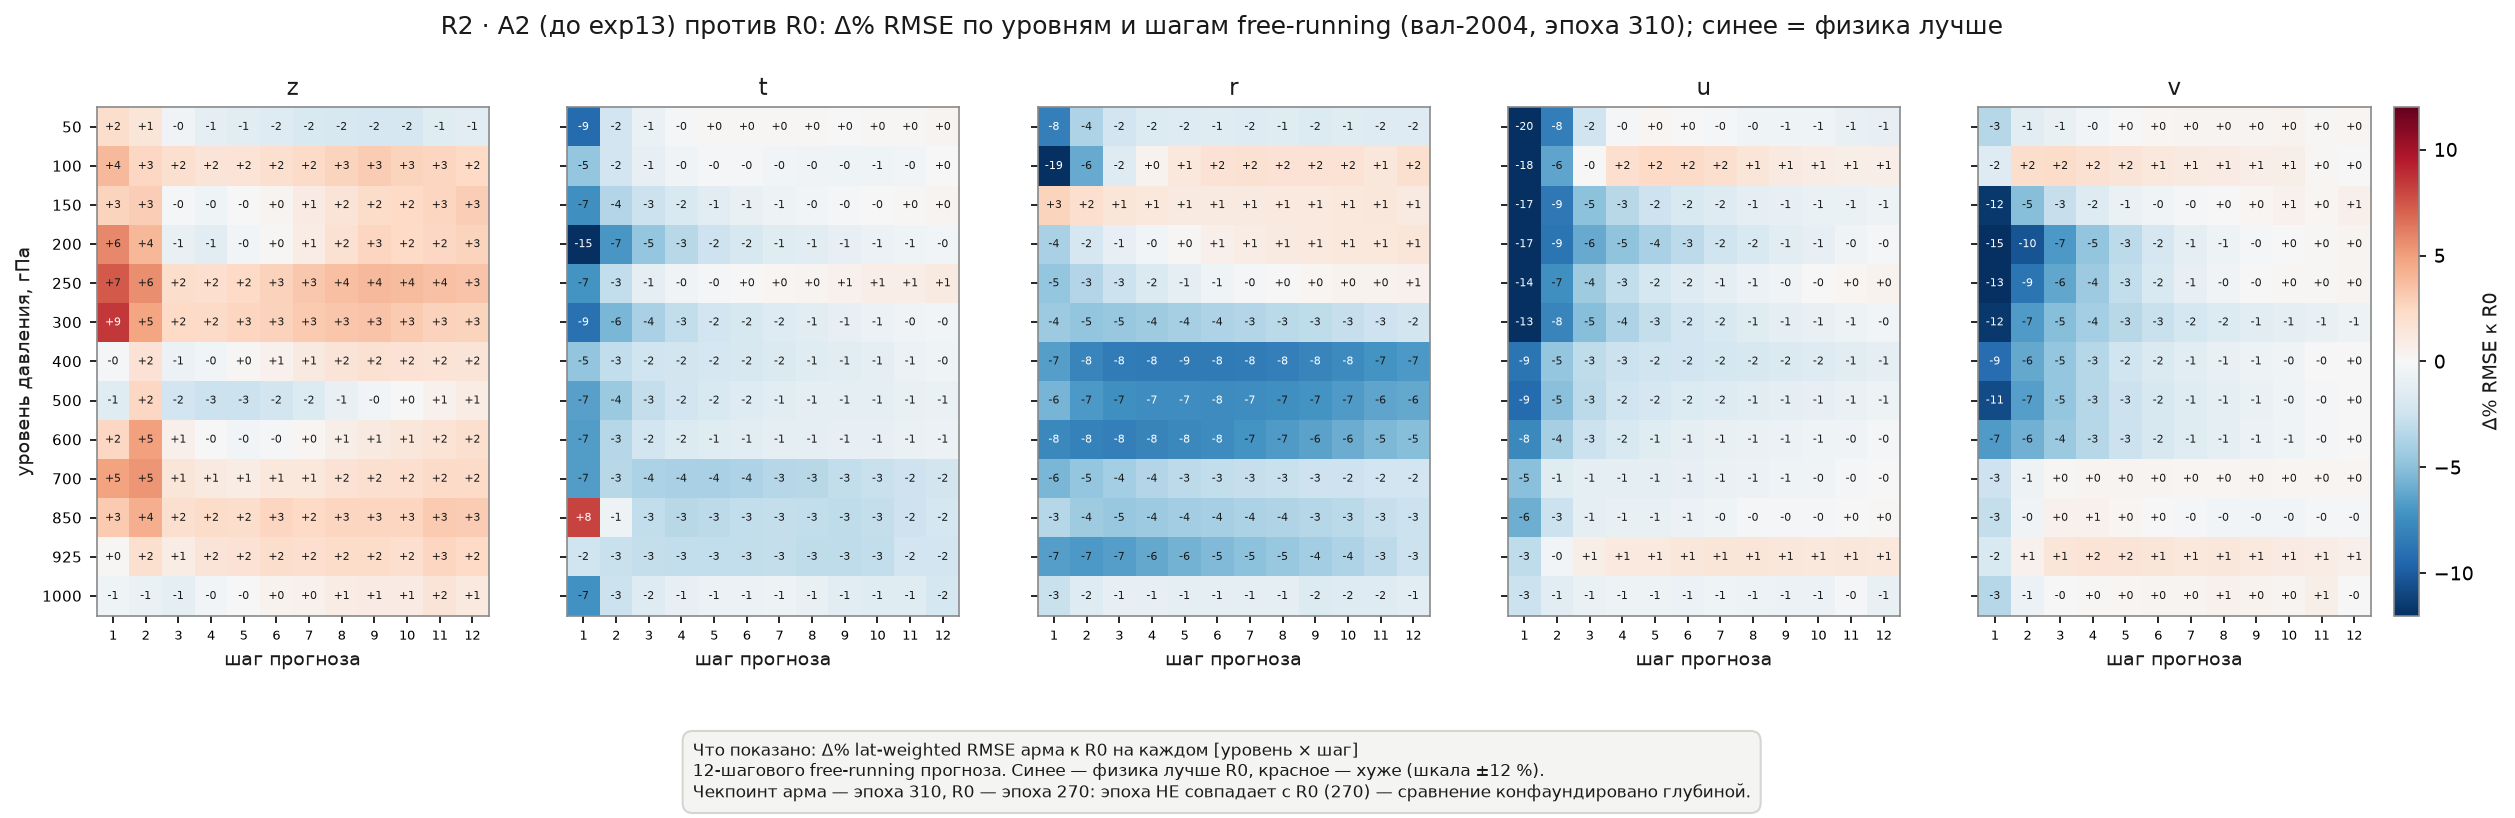
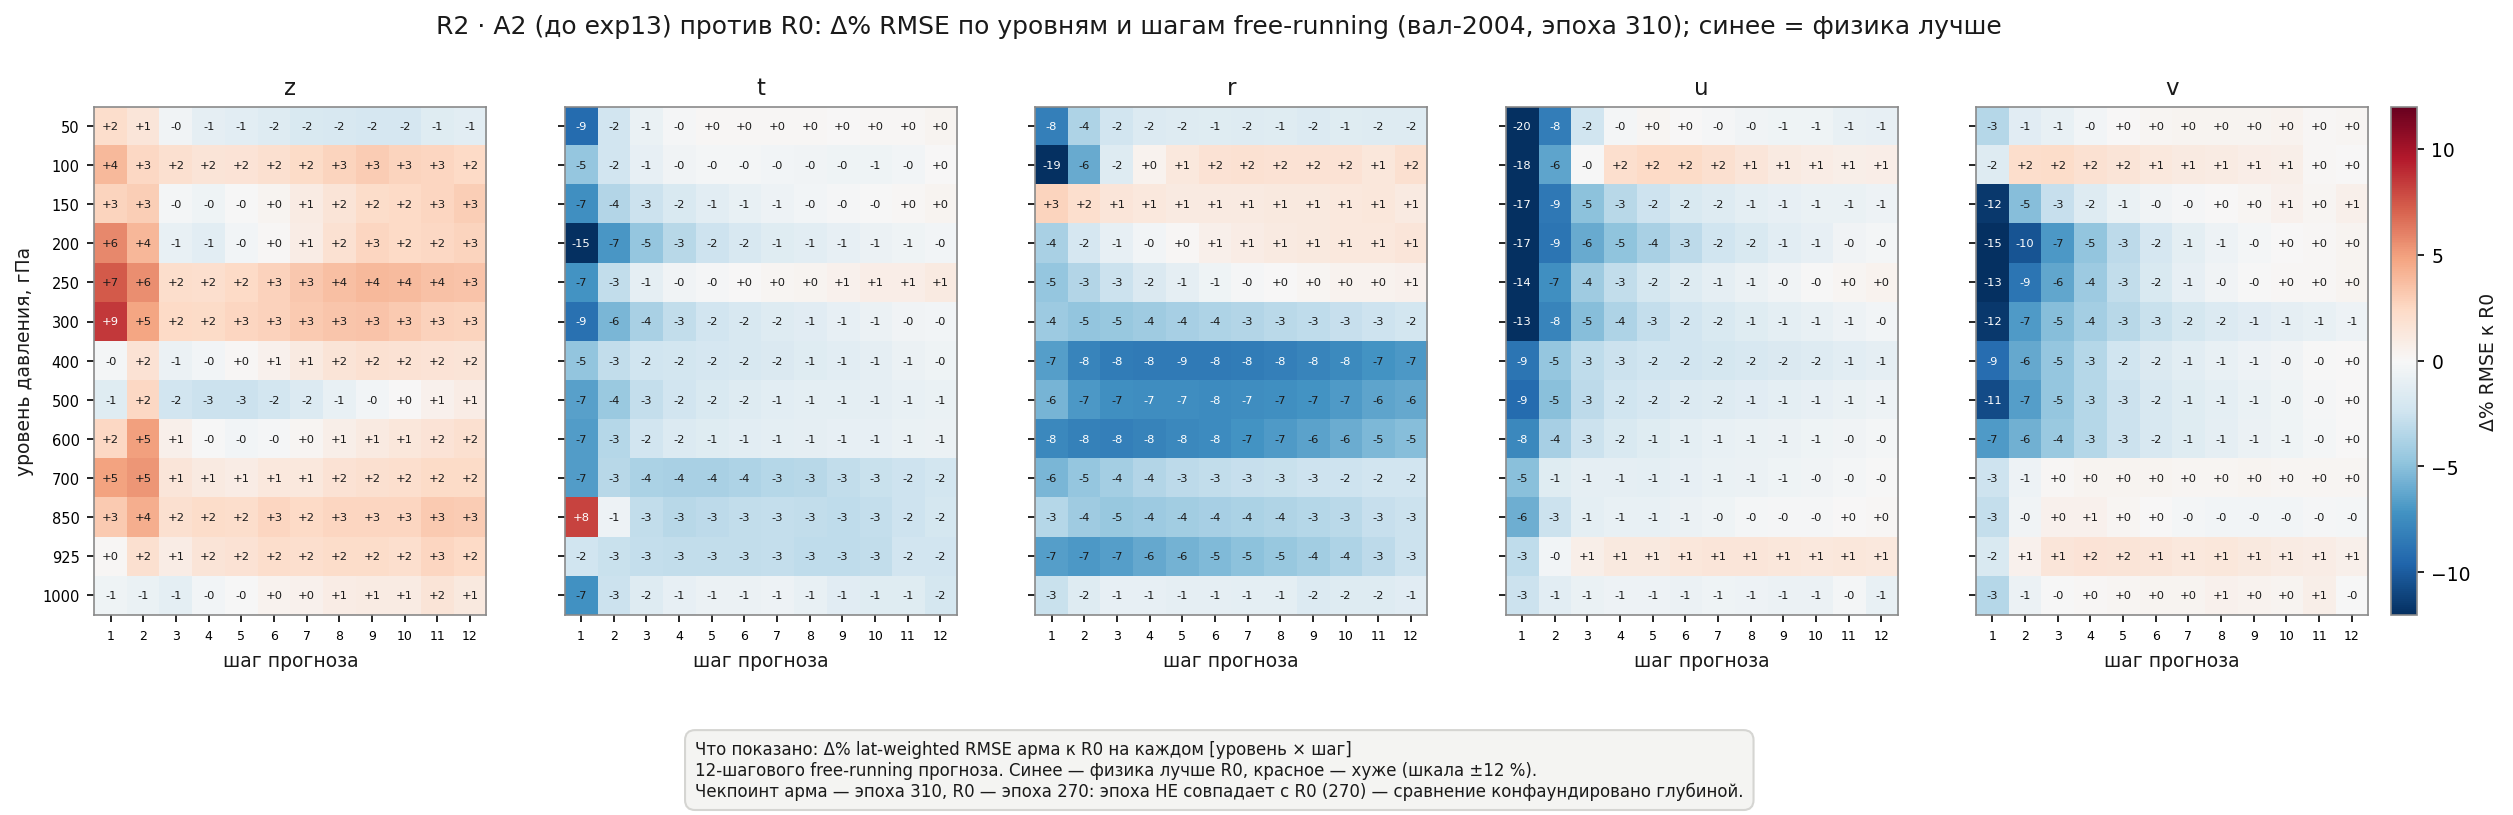
feat(exp16): per-arm heatmaps for the whole ladder; long-wave conclusions (§11)
Figures: an unannotated per-arm heatmap (render_arm_heatmap) for all six ladder
arms in both waves, alongside the annotated level×step heatmap already added for
the four equation arms, plus a level-resolved delta table per wave.

§11 states the long wave's conclusions:
- physics is worth ~2% (val_loss and rollout alike) and only when the equations
  are right: legacy physics is worse than none (+1.9%), and physics without the
  diabatic Q_theta is too (+0.3%). The spread between broken and correct physics
  (4 pp) exceeds the whole gain of correct physics over none (2 pp);
- Q3 answered: the gap does not collapse at plateau, but it decomposes -- physics
  is convergence speed at short lead (R0 catches up and overtakes on z) and
  capacity against drift at long lead (R0 degrades as it keeps training, the
  physics arms hold). Without physics the model buys step-1 accuracy with rollout
  drift; the prior forbids that trade;
- validation plateau is not a skill plateau: per-step skill keeps growing ~10-14%
  after val_loss flattens, so best.pt selection is mis-specified for short lead and
  arms cannot be ranked from best.pt checkpoints at different epochs;
- vertically, physics fixes the jet (u -24% at 50 hPa) and not the boundary layer;
  the only lead-persistent gain is humidity at 400-600 hPa (-5..-7% across all 12
  steps); the z penalty sits at the top of the column and vanishes at the surface.

diff --git a/docs/experiments/16_model_ablation_ladder/rollout_figures.py b/docs/experiments/16_model_ablation_ladder/rollout_figures.py
@@ -89,7 +89,16 @@ def canonical_arm(name: str) -> str:
 
 UPPER_VARS = ("z", "t", "r", "u", "v")
 VAR_UNITS = {"z": "м²/с²", "t": "K", "r": "%", "u": "м/с", "v": "м/с"}
-# Армы с исправленными уравнениями: для них строятся пер-армовые хитмапы по уровням.
+# Армы лестницы в общем хитмапе (без R0): отдельная фигура на каждый.
+LADDER_ARMS = (
+    "r1-legacy-hybrid",
+    "r2a-a1-pre13",
+    "r2-a2-pre13",
+    "r3-a2-exp13",
+    "r4-exp14",
+    "r5-exp15",
+)
+# Армы с исправленными уравнениями: markdown-таблица по уровням + аннотированный хитмап.
 EQUATION_ARMS = ("r2-a2-pre13", "r3-a2-exp13", "r4-exp14", "r5-exp15")
 TABLE_STEPS = (1, 6, 12)  # шаги прогноза (1-индексация) в markdown-таблице по уровням
 INK, MUTED = "#1a1a1a", "#8a8a8a"
@@ -461,6 +470,52 @@ def level_step_delta(runs: dict[str, dict], arm: str, var: str) -> tuple[np.ndar
     return delta_percent(arm_matrix, base_matrix), levels
 
 
+def render_arm_heatmap(runs: dict[str, dict], arm: str, dst: Path, clip: float = 12.0) -> None:
+    """Один арм в стиле ``render_heatmap``: Δ% к R0, [уровень × шаг], без подписей в ячейках."""
+    n_steps = runs[arm]["rmse_free"].shape[0]
+    boundary = window_boundary(runs)
+    epoch = epoch_label(runs)
+    mid = boundary - 1 if boundary is not None else n_steps // 2 - 1
+    tick_offsets = sorted({0, mid, n_steps - 1})
+    tick_labels = [str(off + 1) for off in tick_offsets]
+    fig, axes = plt.subplots(1, len(UPPER_VARS), figsize=(3.4 * len(UPPER_VARS), 4.2), sharey=True)
+    image = None
+    for ax, var in zip(axes, UPPER_VARS, strict=True):
+        delta, levels = level_step_delta(runs, arm, var)
+        image = ax.imshow(
+            delta, cmap="RdBu_r", vmin=-clip, vmax=clip, aspect="auto", interpolation="nearest"
+        )
+        if boundary is not None:
+            ax.axvline(boundary - 0.5, color=MUTED, lw=0.7, ls=":")
+        ax.set_title(f"{var}", fontsize=10)
+        ax.set_xticks(tick_offsets, tick_labels, fontsize=6)
+        ax.set_xlabel("шаг прогноза")
+        ax.grid(False)
+    axes[0].set_yticks(range(len(levels)), [str(level) for level in levels], fontsize=7)
+    axes[0].set_ylabel("уровень давления, гПа")
+    fig.suptitle(
+        f"{ARM_LABELS[arm]}: Δ% RMSE к R0 по уровням и шагам free-running rollout "
+        f"(вал-2004, {epoch}); синее = лучше R0",
+        fontsize=12,
+        y=1.06,
+    )
+    colorbar = fig.colorbar(image, ax=axes, fraction=0.012, pad=0.01)
+    colorbar.set_label("Δ% RMSE к R0")
+    window_note = (
+        f"пунктир — граница окон {boundary}→{boundary}"
+        if boundary is not None
+        else f"нативный {n_steps}-шаговый прогноз"
+    )
+    add_caption(
+        fig,
+        "Что показано: Δ% lat-weighted RMSE к R0 на каждом [уровень давления × шаг rollout];\n"
+        f"{window_note}. Синее — арм лучше R0 (шкала ±{clip:.0f} %).",
+        y=-0.06,
+    )
+    fig.savefig(dst, bbox_inches="tight")
+    plt.close(fig)
+
+
 def render_arm_level_heatmap(
     runs: dict[str, dict], arm: str, dst: Path, clip: float = 12.0
 ) -> None:
@@ -571,7 +626,10 @@ def main() -> None:
     render_ratio_r0(runs, HERE / f"fig_rollout_ratio_r0{args.suffix}.png")
     render_delta_steps(runs, HERE / f"fig_rollout_delta_steps{args.suffix}.png")
     render_heatmap(runs, HERE / f"fig_rollout_heatmap{args.suffix}.png")
+    ladder_arms = [arm for arm in LADDER_ARMS if arm in runs]
     equation_arms = [arm for arm in EQUATION_ARMS if arm in runs]
+    for arm in ladder_arms:
+        render_arm_heatmap(runs, arm, HERE / f"fig_rollout_heatmap_{arm}{args.suffix}.png")
     for arm in equation_arms:
         render_arm_level_heatmap(runs, arm, HERE / f"fig_rollout_levels_{arm}{args.suffix}.png")
     write_level_step_table(runs, equation_arms, rollout_dir / "level_step_table.md")
@@ -579,7 +637,8 @@ def main() -> None:
     (rollout_dir / "rollout_index.json").write_text(json.dumps(index, indent=2))
     print(  # noqa: T201
         f"[rollout-figures] {len(runs)} runs -> 3 figures{args.suffix} "
-        f"+ {len(equation_arms)} пер-армовых хитмапов + level_step_table.md"
+        f"+ {len(ladder_arms)} пер-армовых heatmap + {len(equation_arms)} levels-хитмапов "
+        f"+ level_step_table.md"
     )
 
 

diff --git a/tests/test_exp16_rollout.py b/tests/test_exp16_rollout.py
@@ -179,7 +179,10 @@ def test_level_step_delta_matrix_against_baseline() -> None:
     # Δ% к R0 на сетке [уровень × шаг]: строки — уровни по возрастанию, столбцы — шаги
     channels = ["z50", "z500"]
     runs = {
-        "r0-no-physics": {"rmse_free": np.array([[10.0, 20.0], [10.0, 20.0]]), "channels": channels},
+        "r0-no-physics": {
+            "rmse_free": np.array([[10.0, 20.0], [10.0, 20.0]]),
+            "channels": channels,
+        },
         "r3-a2-exp13": {"rmse_free": np.array([[9.0, 20.0], [11.0, 20.0]]), "channels": channels},
     }
     delta, levels = rf_mod.level_step_delta(runs, "r3-a2-exp13", "z")

diff --git a/docs/experiments/16_model_ablation_ladder/results/rollout/level_step_table.md b/docs/experiments/16_model_ablation_ladder/results/rollout/level_step_table.md
@@ -1,0 +1,78 @@
+# Δ% RMSE к R0 по уровням давления (free-running, эпоха 18)
+
+Отрицательное — физика лучше R0. Шаги прогноза: 1, 6, 12.
+
+**Конфаунд:** сравнивать с R0 без поправки можно только арм с ТОЙ ЖЕ эпохой чекпоинта (R0 — эпоха 18).
+
+
+## R2 · A2 (до exp13) — эпоха 18
+
+| гПа | z ш1 | z ш6 | z ш12 | t ш1 | t ш6 | t ш12 | r ш1 | r ш6 | r ш12 | u ш1 | u ш6 | u ш12 | v ш1 | v ш6 | v ш12 |
+|---|---|---|---|---|---|---|---|---|---|---|---|---|---|---|---|
+| 50 | +5.4 | +1.6 | +10.9 | -6.8 | -2.4 | -0.7 | -6.1 | -3.6 | -2.1 | -8.9 | -1.1 | -4.7 | -4.6 | -5.3 | +1.5 |
+| 100 | +12.8 | +4.5 | +22.4 | -1.2 | -4.0 | -1.9 | -4.1 | -7.1 | -8.2 | -0.8 | +3.9 | +4.0 | +2.4 | -0.2 | -6.8 |
+| 150 | -15.5 | +12.4 | +11.0 | -5.6 | -2.4 | -3.8 | -0.5 | -0.8 | -2.1 | -8.4 | -2.7 | -4.5 | -6.9 | -5.0 | -8.2 |
+| 200 | -22.9 | +9.6 | +9.8 | -2.7 | -2.6 | -5.3 | -6.2 | -1.8 | +0.1 | -7.1 | -4.1 | -2.9 | -11.6 | -5.8 | -2.7 |
+| 250 | -12.2 | -1.5 | +7.4 | -0.4 | +9.3 | +14.1 | -1.7 | +1.3 | +3.8 | -5.6 | -3.9 | -2.6 | -5.3 | -4.4 | -3.3 |
+| 300 | -14.0 | +1.6 | +8.0 | -2.2 | +5.9 | +9.2 | +4.9 | +3.4 | +5.6 | -2.7 | -3.6 | -3.5 | -1.3 | -2.5 | -3.0 |
+| 400 | -31.8 | -5.5 | -0.8 | -4.5 | -6.2 | -3.7 | +12.6 | +3.4 | +3.5 | -4.7 | -2.3 | -4.0 | -8.7 | -3.4 | -4.0 |
+| 500 | -15.4 | -1.4 | +1.0 | +0.1 | -1.1 | +0.4 | +19.6 | +2.2 | +0.5 | -1.6 | -1.9 | -4.8 | -2.2 | -2.0 | -3.7 |
+| 600 | -8.0 | -0.2 | +3.5 | -7.7 | -5.6 | -5.5 | +11.6 | +0.4 | +0.4 | -4.4 | -2.4 | -5.2 | -4.9 | -2.7 | -3.3 |
+| 700 | +0.1 | -1.0 | +9.6 | -1.8 | -9.2 | -8.2 | +7.2 | +1.4 | +1.1 | -5.2 | -0.8 | -0.8 | -6.1 | -1.1 | -2.5 |
+| 850 | -0.8 | -6.2 | +12.7 | +0.2 | -2.1 | +5.8 | +0.1 | -2.4 | +1.6 | -2.5 | -1.2 | +0.2 | -5.6 | -2.2 | -6.2 |
+| 925 | -3.5 | -5.7 | +12.5 | +1.8 | -1.8 | +4.9 | -1.8 | -2.3 | +1.6 | +0.4 | -5.0 | -5.8 | -6.1 | -2.3 | -1.4 |
+| 1000 | -4.8 | -3.1 | +12.1 | +3.6 | -2.3 | +4.2 | -4.2 | -2.0 | +1.9 | -2.9 | -1.7 | +0.4 | -3.8 | -1.8 | +0.3 |
+
+## R3 · A2 (exp13) — эпоха 18
+
+| гПа | z ш1 | z ш6 | z ш12 | t ш1 | t ш6 | t ш12 | r ш1 | r ш6 | r ш12 | u ш1 | u ш6 | u ш12 | v ш1 | v ш6 | v ш12 |
+|---|---|---|---|---|---|---|---|---|---|---|---|---|---|---|---|
+| 50 | +6.5 | +5.5 | +7.0 | -5.8 | -2.4 | -0.3 | -6.8 | -4.8 | -0.9 | -10.6 | -4.1 | -10.2 | -5.8 | -3.6 | +3.8 |
+| 100 | -1.9 | +3.4 | -1.7 | -0.6 | -3.9 | +4.9 | -0.3 | +4.0 | +26.2 | -7.1 | -1.2 | -0.9 | +5.3 | +4.3 | -11.1 |
+| 150 | -27.6 | +3.8 | -13.8 | -4.9 | -2.9 | -3.6 | +0.3 | -0.6 | -2.6 | -6.4 | -5.4 | -3.4 | -3.0 | -3.3 | -5.0 |
+| 200 | -28.9 | +7.4 | -12.9 | -2.8 | -4.0 | -6.9 | -2.4 | +0.9 | +1.7 | -4.6 | -2.1 | +2.8 | -7.0 | -2.4 | -3.2 |
+| 250 | -12.0 | +2.7 | -9.5 | -5.8 | -3.9 | -3.2 | -0.0 | -2.0 | -2.0 | -4.5 | -3.6 | -2.6 | -3.3 | -3.8 | -2.5 |
+| 300 | -20.1 | +1.4 | -14.4 | -5.9 | -1.8 | -1.5 | +6.3 | +2.7 | +3.8 | -1.9 | -2.5 | -2.2 | -2.1 | -1.7 | -1.9 |
+| 400 | -28.5 | +5.2 | -20.8 | -4.2 | -6.8 | -6.6 | +12.7 | +4.8 | +5.8 | -5.3 | -2.0 | -0.1 | -7.5 | -3.3 | -4.7 |
+| 500 | -11.0 | +11.2 | -17.5 | -0.2 | -2.6 | -2.7 | +18.4 | +2.5 | +1.3 | -3.8 | -2.3 | -1.3 | -3.1 | -2.7 | -4.3 |
+| 600 | -7.5 | +11.0 | -15.0 | -6.9 | -7.0 | -8.0 | +13.0 | +0.6 | +0.2 | -2.7 | -1.3 | -4.7 | -4.3 | -2.7 | -4.0 |
+| 700 | -3.6 | +6.3 | -9.9 | -1.3 | -7.9 | -5.9 | +6.5 | +2.0 | +1.7 | -2.1 | +0.3 | -3.0 | -9.6 | -1.1 | -3.9 |
+| 850 | -2.0 | -0.3 | -4.8 | -1.2 | +0.4 | +9.0 | -0.0 | -1.1 | +3.4 | -4.0 | -1.2 | -1.0 | -5.7 | -2.1 | -5.3 |
+| 925 | +0.3 | -2.0 | -2.2 | +0.9 | -0.6 | +5.9 | -1.1 | -1.7 | +2.5 | +0.3 | -4.6 | -5.8 | -6.1 | -1.7 | -1.3 |
+| 1000 | +2.6 | +0.5 | -1.2 | -0.2 | -2.3 | +3.7 | -3.1 | -1.7 | +1.8 | -2.4 | -1.7 | +0.5 | -5.2 | -1.7 | +4.1 |
+
+## R4 · +exp14 — эпоха 18
+
+| гПа | z ш1 | z ш6 | z ш12 | t ш1 | t ш6 | t ш12 | r ш1 | r ш6 | r ш12 | u ш1 | u ш6 | u ш12 | v ш1 | v ш6 | v ш12 |
+|---|---|---|---|---|---|---|---|---|---|---|---|---|---|---|---|
+| 50 | +2.5 | -2.4 | +3.3 | -4.9 | -1.7 | -0.0 | -5.9 | -4.8 | -1.7 | -0.7 | +4.3 | +7.0 | -3.6 | -5.6 | -4.7 |
+| 100 | -0.5 | -1.3 | -6.1 | +3.8 | -2.0 | +7.0 | +2.5 | +8.8 | +30.9 | -3.9 | -1.3 | -0.8 | -4.5 | -1.1 | -9.4 |
+| 150 | -27.8 | -0.5 | -14.3 | -0.4 | -1.9 | -2.2 | +0.4 | -2.0 | -4.5 | -0.8 | -4.3 | -1.5 | -4.9 | -6.0 | -6.7 |
+| 200 | -29.1 | -1.1 | -11.4 | -2.4 | -2.1 | -3.3 | -4.7 | -1.7 | -2.2 | -5.9 | -2.8 | -2.6 | -12.1 | -4.8 | -4.2 |
+| 250 | -11.1 | -1.8 | -6.4 | -4.5 | -1.7 | +0.5 | +3.5 | -1.5 | -2.1 | -4.0 | -2.1 | -3.5 | -2.6 | -3.9 | -3.0 |
+| 300 | -19.2 | -4.0 | -7.9 | -2.9 | +0.5 | +1.9 | +7.2 | +2.4 | +3.6 | -1.7 | -1.9 | -0.1 | -1.5 | -0.8 | -1.0 |
+| 400 | -30.4 | -4.5 | -12.0 | -2.9 | -4.9 | -0.9 | +12.6 | +4.6 | +5.6 | -1.6 | +2.5 | +8.1 | -6.6 | -2.5 | -2.7 |
+| 500 | -13.8 | -0.1 | -9.0 | +3.3 | -1.2 | +1.0 | +19.5 | +2.9 | +2.1 | -0.6 | +2.1 | +8.0 | -1.3 | -1.7 | -3.0 |
+| 600 | -8.3 | +3.8 | -7.0 | -3.3 | -5.8 | -6.2 | +13.5 | +0.6 | +0.2 | -3.9 | -1.6 | -0.5 | -4.7 | -1.1 | -0.3 |
+| 700 | +0.2 | -0.8 | +1.2 | +0.1 | -7.7 | -8.4 | +6.7 | +0.8 | +0.1 | -2.2 | -0.4 | -1.8 | -6.2 | -0.5 | +0.8 |
+| 850 | -4.9 | -5.2 | +5.2 | -0.1 | +0.8 | +8.3 | -0.9 | -1.8 | +2.1 | -2.8 | -1.4 | -2.3 | -4.7 | -1.5 | -2.1 |
+| 925 | -2.8 | -4.7 | +8.5 | +1.0 | -1.8 | +4.4 | -2.4 | -1.9 | +1.2 | +2.1 | -5.0 | -7.0 | -4.5 | -2.1 | -0.6 |
+| 1000 | -4.5 | -2.9 | +6.3 | +1.5 | -2.6 | +3.7 | -4.2 | -1.4 | +1.7 | -0.7 | -1.9 | -0.2 | -4.3 | -1.8 | +4.1 |
+
+## R5 · +exp15 — эпоха 18
+
+| гПа | z ш1 | z ш6 | z ш12 | t ш1 | t ш6 | t ш12 | r ш1 | r ш6 | r ш12 | u ш1 | u ш6 | u ш12 | v ш1 | v ш6 | v ш12 |
+|---|---|---|---|---|---|---|---|---|---|---|---|---|---|---|---|
+| 50 | +3.2 | -0.5 | -3.9 | -5.2 | -1.9 | -2.7 | -9.6 | -5.0 | -4.5 | -7.9 | -4.9 | -9.7 | -7.0 | -3.1 | +6.1 |
+| 100 | -2.1 | -0.5 | -8.2 | +2.8 | -3.1 | +0.6 | -0.5 | -1.3 | +7.2 | -8.3 | -1.4 | +1.6 | +3.1 | +2.3 | -9.8 |
+| 150 | -29.2 | -3.4 | -13.5 | -3.6 | -1.3 | -3.2 | -1.9 | -1.4 | -3.9 | -5.9 | -2.2 | +2.2 | -5.1 | -6.0 | -9.2 |
+| 200 | -27.2 | +0.1 | -12.2 | -3.5 | -2.8 | -4.7 | -5.0 | -1.8 | -2.2 | -9.2 | -2.6 | +3.0 | -12.1 | -4.2 | -3.7 |
+| 250 | -4.4 | -1.4 | -10.3 | -4.8 | +2.7 | +5.4 | +7.0 | -0.1 | -0.8 | -5.7 | -3.2 | -0.3 | -4.5 | -4.2 | -3.6 |
+| 300 | -22.7 | -4.9 | -13.2 | -4.9 | -2.1 | -0.7 | +8.5 | +3.5 | +4.8 | -2.7 | -2.0 | +0.4 | -4.6 | -2.3 | -2.2 |
+| 400 | -33.0 | -6.0 | -18.6 | -4.5 | -6.4 | -3.7 | +12.6 | +4.8 | +5.9 | -5.7 | -2.4 | -1.0 | -6.5 | -3.3 | -3.6 |
+| 500 | -10.6 | +2.2 | -16.3 | -1.2 | -2.2 | +0.6 | +17.8 | +2.6 | +1.2 | -2.8 | -1.9 | -4.1 | -3.1 | -2.6 | -3.3 |
+| 600 | -8.1 | +1.5 | -12.2 | -6.1 | -7.1 | -7.0 | +13.0 | +0.3 | +0.3 | +0.2 | +1.5 | -5.3 | -4.6 | -2.0 | -1.7 |
+| 700 | -3.7 | -0.6 | -5.6 | -2.4 | -9.5 | -10.3 | +5.9 | +0.8 | +0.3 | +0.5 | +1.9 | -2.5 | -3.8 | -0.7 | +0.7 |
+| 850 | -1.3 | -3.8 | -0.5 | -0.3 | -2.2 | +4.3 | -0.9 | -1.9 | +2.0 | -1.3 | -1.1 | -1.1 | -4.5 | -2.0 | -4.9 |
+| 925 | -1.6 | -4.0 | +1.2 | +1.7 | -1.9 | +2.7 | -1.6 | -0.9 | +2.7 | +2.2 | -4.8 | -6.6 | -4.0 | -1.6 | -2.3 |
+| 1000 | +0.1 | -1.2 | +0.4 | +0.3 | -2.7 | +1.6 | -4.4 | -1.8 | +0.6 | -2.7 | -2.0 | -0.8 | -5.1 | -2.1 | +1.0 |
